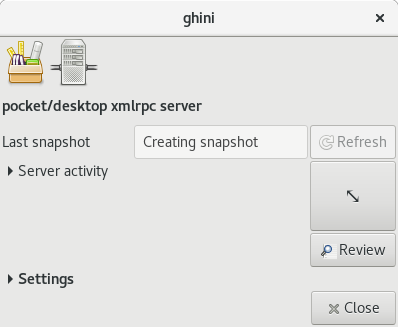
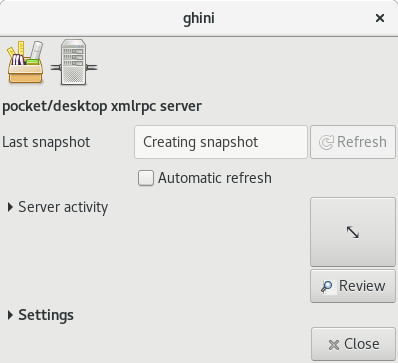
review pocket server

diff --git a/doc/ghini-family.rst b/doc/ghini-family.rst
@@ -138,32 +138,39 @@ data streams between components
 .. image:: images/ghini-streams-installed.png
    :align: left
 
-In the diagram showing the composition of the Ghini family, the alert reader
-noticed how different arrows representing different data flows, had
-different colours: some are deep green, some have a lighter tint, while the
-two streams connecting ghini.pocket to ghini.desktkop have a colour
-gradient, deep green at the pocket end, and lighter at the desktop end.
+In the diagram showing the composition of the Ghini family, the alert reader noticed how
+different arrows, corresponding to the different data flows, had different colours: some are
+deep green, some have a lighter tint, while the two streams connecting ghini.pocket and
+ghini.desktkop have a colour gradient, from light to deep green.
 
-The colour choice conveys a meaning: deeper green streams are constant flows
-of data, representing the core activity of a component, eg: the interaction
-between ghini.desktop and its database server, or your internet browser and
-ghini.web.
+.. image:: images/ghini-family-clean.png
+
+The colour choice for the arrows conveys a meaning: deeper green streams are constant flows
+of data, representing the core activity of a component, eg: the interaction between
+ghini.desktop and its database server, or your internet browser and ghini.web.
 
 Lighter green streams are import/export actions, initiated by the user at the
 command panel of ghini.desktop, or in the ghini.tour settings page.
 
-The interaction between ghini.pocket and ghini.desktop seen from the pocket
-end is an interaction with a data server, while from the point of view of
-the desktop application, it's a stream you initiate when needed and stop as
-soon as you are done using it.
+The interaction between ghini.pocket and ghini.desktop seen from the desktop, it is a stream you
+initiate when needed and stop as soon as you are done using it, for this reason it is light
+green at the desktop end.  From the point of view of ghini.pocket however, it is an interaction
+with a data server, and we make this visible by giving the arrows a deep green colour at the
+pocket end.
 
-This is the same graph, in which all import data streams have been given an
-identifier.
+This is again the same graph, but now all import data streams have been given an identifier, and
+where we added thin red lines ending in a thick dot, to indicate the control line from the
+controlling console to the controlled stream.
 
 .. image:: images/ghini-family-streams.png
 
-.. note:: The remainig expandable sections contain mostly technical information, aimed at
-          database managers and software developers.
+The interaction between ghini.pocket and ghini.desktop is one of the daily tasks of Ghini users,
+and has an integrated, hopefully user-friendly interface, at both the ghini.pocket and the
+ghini.desktop ends.  This is described in the next section.
+
+All import/export actions relating to ghini.web are still rather low level actions, so their
+description needs be of a rather technical type.  These are handled in the remainig expandable
+sections, aimed mainly at database managers and possibly software developers.
 
 ..  admonition:: d2w: send a selection of your garden data to ghini.web
     :class: toggle
@@ -211,17 +218,6 @@ identifier.
        - Garden (coords, name, zoom level)
        - Points of Interest (coords, title, audio file, photo)
 
-..  admonition:: d2p: copy a snapshot of the desktop database to ghini.pocket
-    :class: toggle
-
-       please refer to the below  :any:`pocket-desktop interaction` discussion.
-
-
-..  admonition:: p2d: import from the ghini.pocket log file and pictures into the central database
-    :class: toggle
-
-       please refer to the below  :any:`pocket-desktop interaction` discussion.
-
 .. _pocket-desktop interaction:
 
 Managing pocket/desktop interaction
@@ -235,7 +231,8 @@ from registered |ghini.pocket| clients.
 |ghini.desktop| server mode
 ----------------------------------------
 
-You activate server mode on |ghini.desktop| with :menuselection:`Tools-->Pocket Server..`.
+Select :menuselection:`Tools-->Pocket Server..` to activate server mode on |ghini.desktop|.
+This is the Pocket Server console:
 
 .. image:: images/pocket-server-starting.png
 
@@ -246,14 +243,20 @@ clients will be able to register, request database snapshots, or send collected 
 
 |ghini.pocket| works with a reduced database snapshot, containing only the most significant
 elements, under a simplified schema.  |ghini.desktop| produces such a snapshot when it enters
-server mode, automatically and in the background.  Production of a snapshot is generally fast,  
-and a typical Pocket Server session consists of: pushing updates from |ghini.pocket| clients,
-refreshing your snapshot on |ghini.desktop|, pulling the new snapshot to each of your clients.
+server mode, automatically and in the background.  A typical Pocket Server session consists of:
+validate your identity, push updates from |ghini.pocket| clients, refresh your snapshot on
+|ghini.desktop|, pull the new snapshot to each of your clients.
 
-|ghini.desktop| and |ghini.pocket| need to be connected to the same local network.  The server
-GUI includes an informative entry for the server IP address, this you obviously don't edit,
-and an entry for the port number, which defaults to GHINI/44464.  Make sure that every
-configuration on your clients matches the settings on the server.
+Production of a snapshot is generally fast, surely for collections below the ten thousand
+plants, so you may prefer to keep the automatic refresh option enabled: a refresh will be
+triggered after receiving data from pocket clients and ghini.desktop will compute it while it is
+still receiving pictures.  You will most likely not notice any delay.  With automatic refresh
+enabled, the sequence reduces to: validate your identity, push updates, pull the new snapshot.
+
+|ghini.desktop| and |ghini.pocket| need to be connected to the same (local) network.  The server
+GUI includes an informative entry for the server IP address, this you obviously don't edit, and
+an entry for the port number, which defaults to GHINI/44464.  Make sure that every configuration
+on your clients matches the settings on the server.
 
 .. image:: images/pocket-server-settings.png
 
@@ -266,9 +269,11 @@ need to use the same phone with a different user name, you must overrule the exi
 registration, and to do so, you need the security code as shown in the desktop server
 settings.
 
-Start the server on |ghini.desktop| and move your focus to your |ghini.pocket| client.  It is
-from the |ghini.pocket| clients that you handle the communication.  After accepting updates
-from your |ghini.pocket| clients, refresh the snapshot and update it on all your clients.
+Start the server on |ghini.desktop| by clicking on that thick push button, it will stay pushed
+and slowly spinning while the server is active.  Possibly enable automatic refresh, then move
+your attention focus to your |ghini.pocket| client.  It is from the |ghini.pocket| clients that
+you handle the communication.  After accepting updates from your |ghini.pocket| clients, refresh
+the snapshot and update it on all your clients.
 
 When done, stop the server, review the logs, close the Pocket Server window.
 
@@ -278,9 +283,9 @@ When done, stop the server, review the logs, close the Pocket Server window.
 |ghini.pocket| options menu has a |desktop| item.  Use it to activate the
 "desktop-client" window, which implements all interaction with the |ghini.desktop| server.
 
-The "desktop-client" window contains data fields you have to edit in order to gain access to
-the server, and buttons for server communication.  The communication buttons are not enabled
-unless you validate your identity.
+The "desktop-client" window contains data fields you have to edit in order to gain access to the
+server, and buttons for server communication.  The communication buttons are not enabled unless
+you validate (that is: register, or verify if already registered) your identity.
 
 .. image::  images/ghini-pocket-client.png
 
